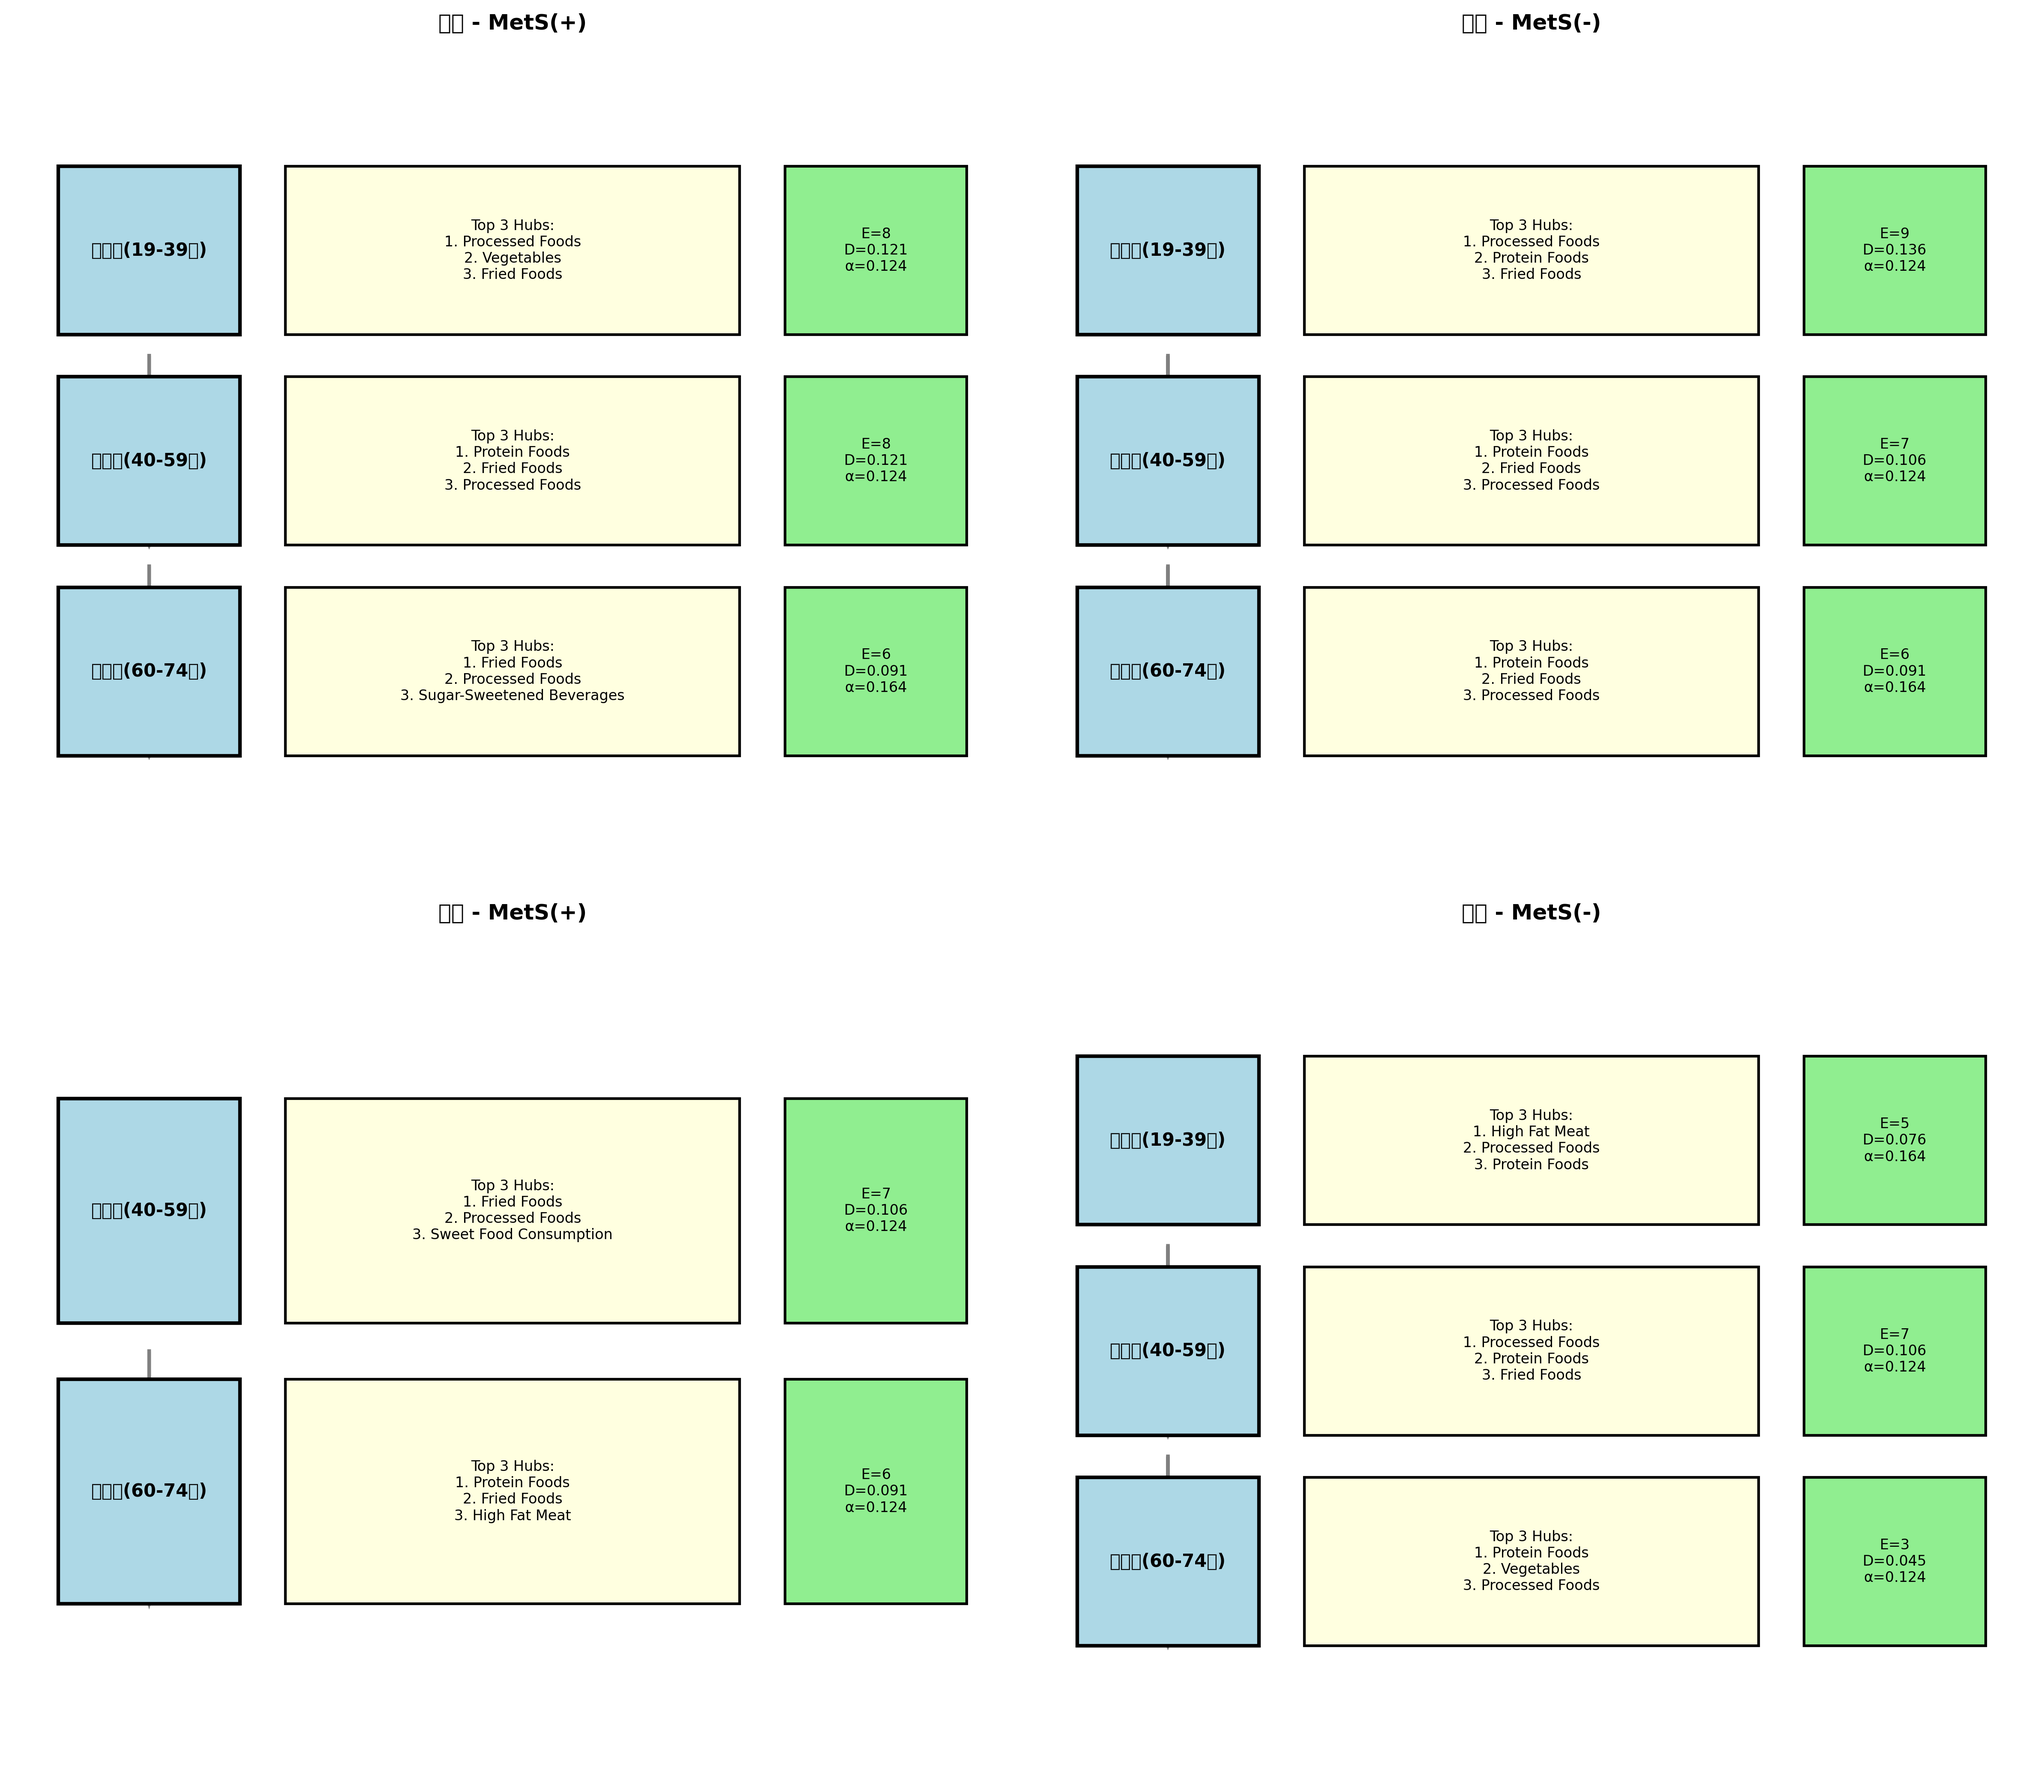
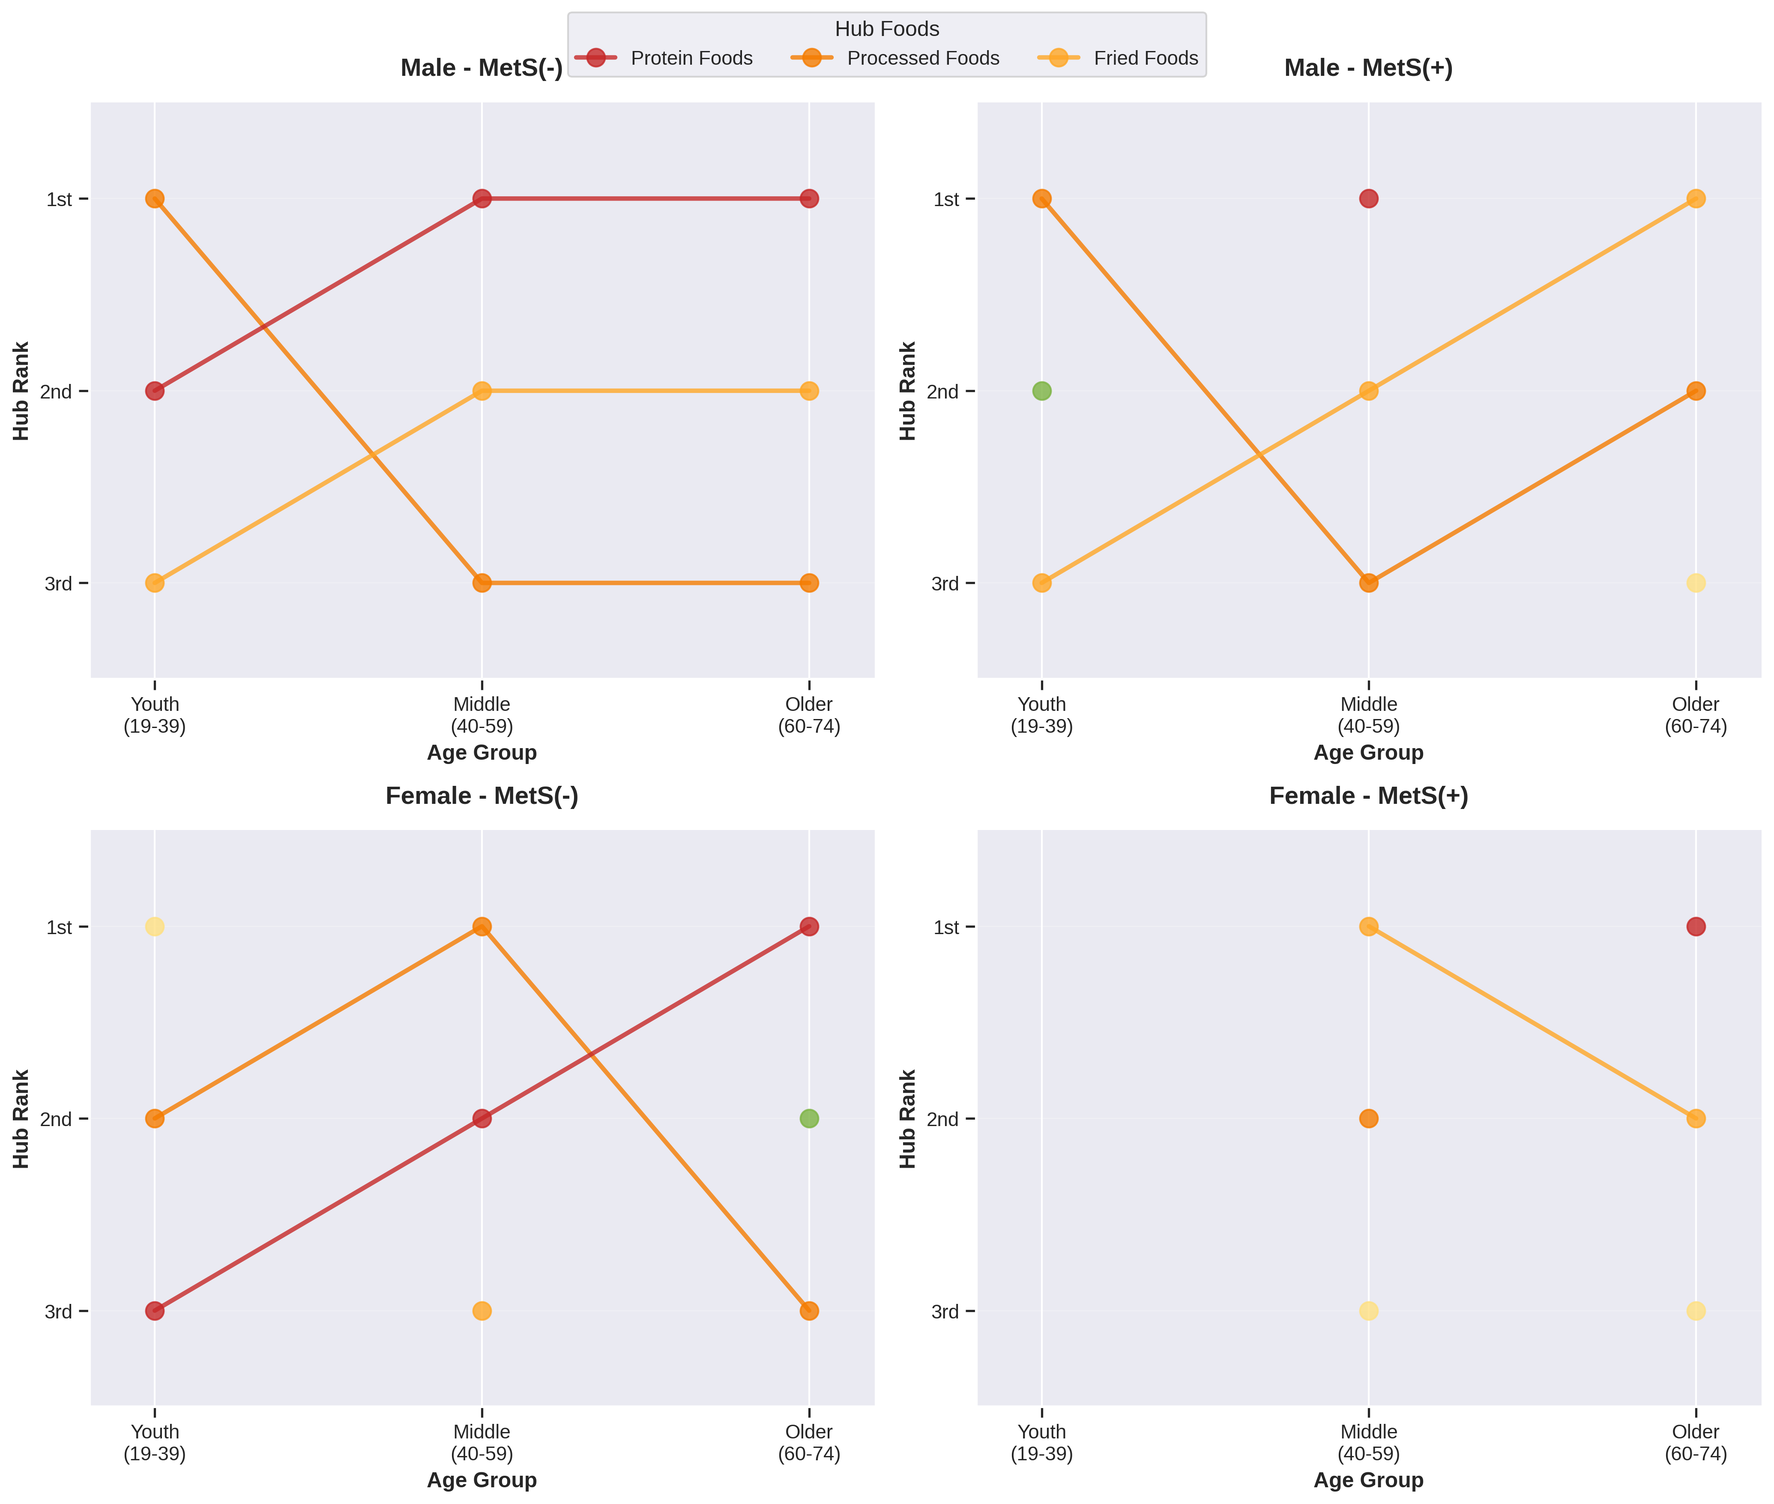
style(ver4.0): Redesign Figure S2 with modern line chart style
- Replace flowchart-style Figure S2 with clean line chart visualization
- Show hub rank transitions (1st/2nd/3rd) across age groups
- Color-coded by food type (Protein: red, Vegetables: green, etc.)
- Separate panels for Male/Female × MetS(+)/MetS(-)
- Improved visual clarity and readability
- Similar aesthetic to reference design

File changes:
- New: generate_figure_s2_modern.py (modern chart generator)
- Modified: generate_supplementary_materials.py (use new S2 generator)
- Updated: Figure_S2_Hub_Transitions_GGM.png (449KB)

Visual improvements:
✓ Hub rank on Y-axis (1st at top, 3rd at bottom)
✓ Age progression on X-axis (Youth → Middle → Older)
✓ Connected lines showing hub transitions
✓ Consistent color scheme across panels
✓ Clean grid and minimal spines

diff --git a/ver4.0_GGM/src/generate_figure_s2_modern.py b/ver4.0_GGM/src/generate_figure_s2_modern.py
@@ -1,0 +1,245 @@
+#!/usr/bin/env python3
+"""
+Generate Modern Figure S2: Hub Rank Transitions Across Age Groups
+Clean line chart style similar to provided reference
+"""
+
+import pandas as pd
+import numpy as np
+import matplotlib.pyplot as plt
+import seaborn as sns
+from pathlib import Path
+
+# Set up paths
+BASE_DIR = Path('/home/user/webapp/ver4.0_GGM')
+NETWORK_DIR = BASE_DIR / 'result' / 'networks'
+FIGURES_DIR = BASE_DIR / 'result' / 'supplementary_figures'
+
+# Modern style settings
+plt.style.use('seaborn-v0_8-darkgrid')
+sns.set_context("notebook", font_scale=1.1)
+
+# Define food categories with colors (matching reference image style)
+FOOD_COLORS = {
+    'Protein Foods': '#C62828',  # Deep red
+    'Vegetables': '#7CB342',      # Green
+    'Processed Foods': '#F57C00', # Orange
+    'Fried Foods': '#FFA726',     # Light orange
+    'High Fat Meat': '#FFE082',   # Pale yellow
+    'Sugar-Sweetened Beverages': '#FFE082',
+    'Sweet Food Consumption': '#FFE082',
+}
+
+def load_network_summary():
+    """Load network summary data"""
+    return pd.read_csv(NETWORK_DIR / 'ggm_network_summary.csv')
+
+def prepare_hub_rank_data(df_summary):
+    """Prepare data for hub rank visualization across age groups"""
+    
+    # Age group mapping for ordering
+    age_order = {
+        '청년층(19-39세)': 0,
+        '중년층(40-59세)': 1,
+        '장년층(60-74세)': 2
+    }
+    
+    age_labels = ['Youth\n(19-39)', 'Middle\n(40-59)', 'Older\n(60-74)']
+    
+    # Process data for each sex-MetS combination
+    groups_data = {}
+    
+    for sex in ['남성', '여성']:
+        for mets in ['MetS(-)', 'MetS(+)']:
+            mask = (df_summary['Sex'] == sex) & (df_summary['MetS_Status'] == mets)
+            group_df = df_summary[mask].copy()
+            
+            if len(group_df) == 0:
+                continue
+            
+            # Sort by age
+            group_df['age_rank'] = group_df['Age_Group'].map(age_order)
+            group_df = group_df.sort_values('age_rank')
+            
+            # Extract hub ranks across age groups
+            hub_transitions = {}
+            
+            for idx, row in group_df.iterrows():
+                age_idx = age_order[row['Age_Group']]
+                
+                # Get top 3 hubs
+                for rank in [1, 2, 3]:
+                    hub_name = row[f'Hub_{rank}_Name']
+                    
+                    if hub_name not in hub_transitions:
+                        hub_transitions[hub_name] = {0: None, 1: None, 2: None}
+                    
+                    hub_transitions[hub_name][age_idx] = rank
+            
+            groups_data[f"{sex}_{mets}"] = {
+                'transitions': hub_transitions,
+                'ages': group_df['Age_Group'].tolist()
+            }
+    
+    return groups_data, age_labels
+
+def generate_modern_figure_s2():
+    """Generate modern hub transition figure"""
+    print("\n📊 Generating Modern Figure S2: Hub Rank Transitions...")
+    
+    df_summary = load_network_summary()
+    groups_data, age_labels = prepare_hub_rank_data(df_summary)
+    
+    # Create 2x2 subplot
+    fig, axes = plt.subplots(2, 2, figsize=(14, 12))
+    axes = axes.flatten()
+    
+    # Define panel order
+    panels = [
+        ('남성_MetS(-)', 'Male - MetS(-)'),
+        ('남성_MetS(+)', 'Male - MetS(+)'),
+        ('여성_MetS(-)', 'Female - MetS(-)'),
+        ('여성_MetS(+)', 'Female - MetS(+)'),
+    ]
+    
+    x_positions = [0, 1, 2]  # Youth, Middle, Older
+    
+    for panel_idx, (group_key, title) in enumerate(panels):
+        ax = axes[panel_idx]
+        
+        if group_key not in groups_data:
+            ax.text(0.5, 0.5, 'Insufficient\nData', 
+                   ha='center', va='center', fontsize=16, color='gray')
+            ax.set_title(title, fontsize=14, fontweight='bold', pad=15)
+            ax.set_xlim(-0.2, 2.2)
+            ax.set_ylim(0.5, 3.5)
+            ax.set_yticks([1, 2, 3])
+            ax.set_yticklabels(['1st', '2nd', '3rd'])
+            ax.set_xticks(x_positions)
+            ax.set_xticklabels(age_labels)
+            ax.invert_yaxis()
+            ax.spines['top'].set_visible(False)
+            ax.spines['right'].set_visible(False)
+            continue
+        
+        transitions = groups_data[group_key]['transitions']
+        
+        # Plot each food's transition
+        for food, ranks in transitions.items():
+            # Get color
+            color = FOOD_COLORS.get(food, '#BDBDBD')
+            
+            # Extract rank values for each age
+            y_vals = [ranks[i] if ranks[i] is not None else np.nan for i in x_positions]
+            x_vals = [i for i in x_positions]
+            
+            # Remove None values for plotting
+            valid_indices = [i for i, val in enumerate(y_vals) if not np.isnan(val)]
+            if len(valid_indices) == 0:
+                continue
+            
+            x_plot = [x_vals[i] for i in valid_indices]
+            y_plot = [y_vals[i] for i in valid_indices]
+            
+            # Plot line
+            ax.plot(x_plot, y_plot, 
+                   marker='o', 
+                   markersize=10, 
+                   linewidth=2.5, 
+                   color=color, 
+                   alpha=0.8,
+                   label=food,
+                   zorder=3)
+            
+            # Add connecting lines even across gaps (optional)
+            if len(x_plot) > 1:
+                for i in range(len(x_plot) - 1):
+                    if x_plot[i+1] - x_plot[i] > 1:
+                        # Draw faint line across gap
+                        ax.plot([x_plot[i], x_plot[i+1]], 
+                               [y_plot[i], y_plot[i+1]], 
+                               linestyle=':', 
+                               linewidth=1.5, 
+                               color=color, 
+                               alpha=0.3,
+                               zorder=1)
+        
+        # Formatting
+        ax.set_title(title, fontsize=14, fontweight='bold', pad=15)
+        ax.set_xlabel('Age Group', fontsize=12, fontweight='bold')
+        ax.set_ylabel('Hub Rank', fontsize=12, fontweight='bold')
+        ax.set_xlim(-0.2, 2.2)
+        ax.set_ylim(0.5, 3.5)
+        ax.set_xticks(x_positions)
+        ax.set_xticklabels(age_labels, fontsize=11)
+        ax.set_yticks([1, 2, 3])
+        ax.set_yticklabels(['1st', '2nd', '3rd'], fontsize=11)
+        ax.invert_yaxis()  # Rank 1 at top
+        
+        # Grid
+        ax.grid(True, alpha=0.3, linestyle='-', linewidth=0.5, axis='y')
+        ax.set_axisbelow(True)
+        
+        # Remove top and right spines
+        ax.spines['top'].set_visible(False)
+        ax.spines['right'].set_visible(False)
+        ax.spines['left'].set_linewidth(1.5)
+        ax.spines['bottom'].set_linewidth(1.5)
+    
+    # Create unified legend
+    handles, labels = axes[0].get_legend_handles_labels()
+    
+    # Deduplicate legend entries
+    unique_labels = []
+    unique_handles = []
+    for handle, label in zip(handles, labels):
+        if label not in unique_labels:
+            unique_labels.append(label)
+            unique_handles.append(handle)
+    
+    # Sort by color importance (Protein, Vegetables, Processed, Fried, Others)
+    priority_order = ['Protein Foods', 'Vegetables', 'Processed Foods', 'Fried Foods']
+    sorted_items = []
+    
+    for food in priority_order:
+        if food in unique_labels:
+            idx = unique_labels.index(food)
+            sorted_items.append((unique_handles[idx], unique_labels[idx]))
+    
+    for handle, label in zip(unique_handles, unique_labels):
+        if label not in priority_order:
+            sorted_items.append((handle, label))
+    
+    if sorted_items:
+        legend_handles, legend_labels = zip(*sorted_items)
+        fig.legend(legend_handles, legend_labels, 
+                  loc='upper center', 
+                  bbox_to_anchor=(0.5, 0.98),
+                  ncol=4, 
+                  frameon=True,
+                  fontsize=11,
+                  title='Hub Foods',
+                  title_fontsize=12)
+    
+    plt.tight_layout(rect=[0, 0, 1, 0.96])
+    
+    output_file = FIGURES_DIR / 'Figure_S2_Hub_Transitions_GGM.png'
+    plt.savefig(output_file, dpi=300, bbox_inches='tight', facecolor='white')
+    print(f"✅ Saved: {output_file}")
+    print(f"   File size: {output_file.stat().st_size / 1024:.1f} KB")
+    plt.close()
+
+def main():
+    """Main execution"""
+    print("=" * 80)
+    print("GENERATING MODERN FIGURE S2: HUB RANK TRANSITIONS")
+    print("Clean line chart style")
+    print("=" * 80)
+    
+    generate_modern_figure_s2()
+    
+    print("\n✅ Modern Figure S2 generated successfully!")
+    print("=" * 80)
+
+if __name__ == "__main__":
+    main()

diff --git a/ver4.0_GGM/src/generate_supplementary_materials.py b/ver4.0_GGM/src/generate_supplementary_materials.py
@@ -638,7 +638,21 @@ def main():
     print("=" * 80)
     
     generate_figure_s1()  # Network visualizations
-    generate_figure_s2()  # Hub transitions
+    
+    # Generate Figure S2 (modern hub transitions) by calling external script
+    print("\n📊 Generating Figure S2: Modern Hub Transitions...")
+    import subprocess
+    s2_script = BASE_DIR / 'src' / 'generate_figure_s2_modern.py'
+    if s2_script.exists():
+        result = subprocess.run(['python', str(s2_script)], capture_output=True, text=True)
+        if result.returncode == 0:
+            print("✅ Figure S2 generated via external script")
+        else:
+            print(f"⚠  Figure S2 generation failed, using fallback")
+            generate_figure_s2()  # Fallback to original
+    else:
+        generate_figure_s2()  # Hub transitions (original)
+    
     generate_figure_s3()  # Partial correlation heatmaps (GGM-specific)
     
     # Generate Figure S4 (decision tree) by calling external script
